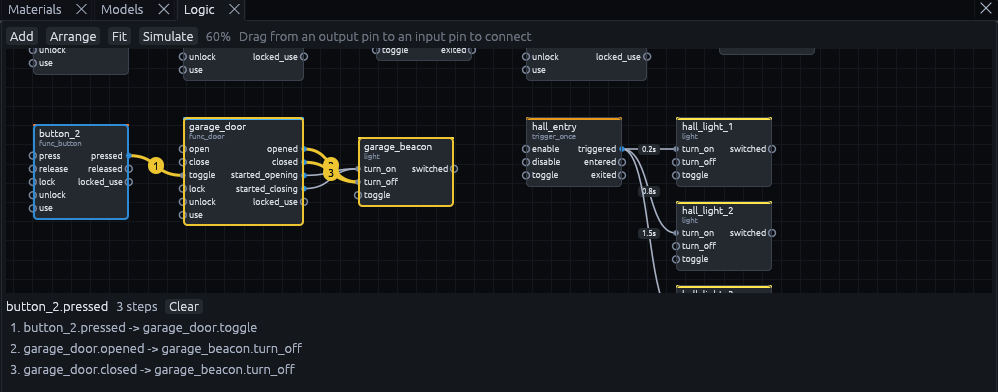
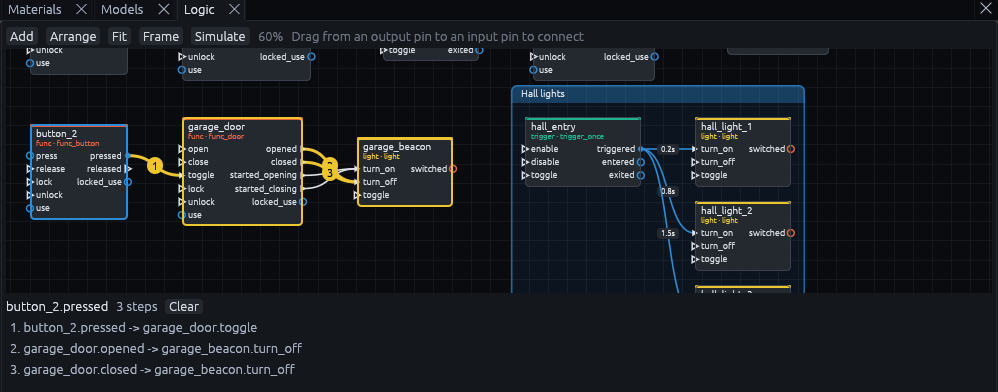
Document colors and frames of the Logic graph

diff --git a/docs/gameplay/logic-graph.md b/docs/gameplay/logic-graph.md
@@ -8,14 +8,15 @@ map, the Godot build and the game work exactly as they did without it.
 Open it from *View > Panels > Logic*. It opens next to Materials below the views and makes that dock about half as
 tall as the middle of the window, since a graph needs room. Drag the divider or the tab to change that.
 
-![The Logic panel of the Night District demo map: button_2 wired to garage_door and garage_door to garage_beacon, with Simulate highlighting the three steps pressing the button sets off, and hall_entry switching three lights on with delays](../assets/logic-graph/simulate.png)
+![The Logic panel of the Night District demo map: buttons wired to doors, a trigger and a timer, with headers colored by category, and a frame titled Hall lights around a trigger that switches three lights on with delays](../assets/logic-graph/graph.png)
 
 ## Reading the graph
 
 | What you see | What it means |
 | --- | --- |
-| Node title | The entity's targetname, else its name from *Rename*, else its classname. The classname is below it |
-| Pins | Inputs on the left, outputs on the right, from the [entity definition](entities/README.md) plus any name the map already uses on that entity. A filled pin has a wire |
+| Node title | The entity's targetname, else its name from *Rename*, else its classname. Below it are the category and the classname |
+| Header color | The category: the definition's group, else the classname's first word, so `logic_relay` is *logic*. See [Colors](#colors) |
+| Pins | Inputs on the left, outputs on the right, from the [entity definition](entities/README.md) plus any name the map already uses on that entity. A filled pin has a wire. Hover a pin for its type and the values it passes |
 | Yellow pin name | The name is not in the entity's definition, the Issues panel warns about it too |
 | Wire label | The delay, `once` or how many times it may fire, and the parameter, when they are set |
 | Blue node and wire | A [target](parameters.md#targets) only the running game resolves, such as `!player`, `@enemies`, a node path or a wildcard like `door_*` |
@@ -24,6 +25,39 @@ tall as the middle of the window, since a graph needs room. Drag the divider or 
 Only wired entities and logic entities have a node. Select any other entity, in a view or the Outliner, and it shows
 up too, ready to be wired.
 
+## Colors
+
+Colors help you scan a big graph, but every color also comes with a name or a shape, and the palettes stay apart for
+the common kinds of color blindness.
+
+| Category | Color |
+| --- | --- |
+| logic | blue |
+| math | orange |
+| trigger | bluish green |
+| func, doors, buttons and movers | vermillion |
+| light | yellow |
+| env | teal |
+| game | sky blue |
+| prop | pink |
+| npc | reddish purple |
+| info | gray |
+
+| Pin type | Color |
+| --- | --- |
+| pulse, an event without a value | white |
+| bool | vermillion |
+| int | sky blue |
+| float | bluish green |
+| string | pink |
+| vector3 | yellow |
+| color | reddish purple |
+| node, such as the activator | blue |
+| variant, any value | gray |
+
+Pins that pass a value are circles, pulses are triangles. A wire takes the color of the output it starts at. A
+category of your own, set with the `group` of a definition, gets a color of its own too.
+
 ## Wiring
 
 1. Drag from an output pin to an input pin. The connection is added to the source entity's outputs. A target without
@@ -31,8 +65,8 @@ up too, ready to be wired.
 2. Drop the wire on a node's title instead, to pick from all its inputs or type any name.
 3. Drop it on empty space to add a logic entity there, already wired to the pin you dragged from.
 
-Right click empty space, or use **Add**, to add a logic entity without a wire. The list starts with the logic
-entities, relays, timers, counters and the like, then other entities that have inputs or outputs. New entities are
+Right click empty space, or use **Add**, to add a logic entity without a wire. The list is grouped by category, logic
+and math first, then other entities that have inputs or outputs, and the search field looks through all of them. New entities are
 point entities, and the Godot build makes a node for each, so they need a place in the map. They go on a layer called
 *Logic*, next to the entity they are wired to, or in front of the 3D view's camera.
 
@@ -60,6 +94,20 @@ panel until you zoom or pan yourself. Once you move a node or wire something in 
 places, and a new node appears next to what it is wired to. Blue and red marker nodes are not entities, so they
 cannot be moved. They sit next to the node that targets them.
 
+## Frames
+
+A frame is a titled box behind a group of nodes, to keep a big graph organized: the doors of one building, a puzzle, a
+cutscene. Select the nodes and press **C** over the graph, or **Frame** in the toolbar, then type its title.
+
+| To | Do |
+| --- | --- |
+| Move a frame with everything inside | Drag its title |
+| Resize it | Drag the corner at its bottom right |
+| Rename it | Double click its title, or select it and press F2 |
+| Recolor or delete it | Right click its title. Deleting a frame keeps its nodes |
+
+Frames are saved in the map as editor data, the Godot build ignores them.
+
 ## Simulate
 
 Select one entity, press **Simulate** and pick one of its outputs, or right click a node. The graph numbers every wire
@@ -67,5 +115,7 @@ the output would set off in yellow, and a list below the graph shows each step w
 delays. **Clear** ends the preview. It follows the runtime's rules: targets are found by targetname, and relays, timers, counters, doors and the
 other common entities pass the chain on. Runtime targets like `!player` are shown but not followed. Click a step to
 select its wire.
+
+![Simulate on button_2: the wires to garage_door and on to garage_beacon are yellow and numbered 1 to 3, and the list below the graph names each step](../assets/logic-graph/simulate.png)
 
 Simulate works on paper, without Godot. What really happens in game is covered in [Debugging wiring](debugging.md).
